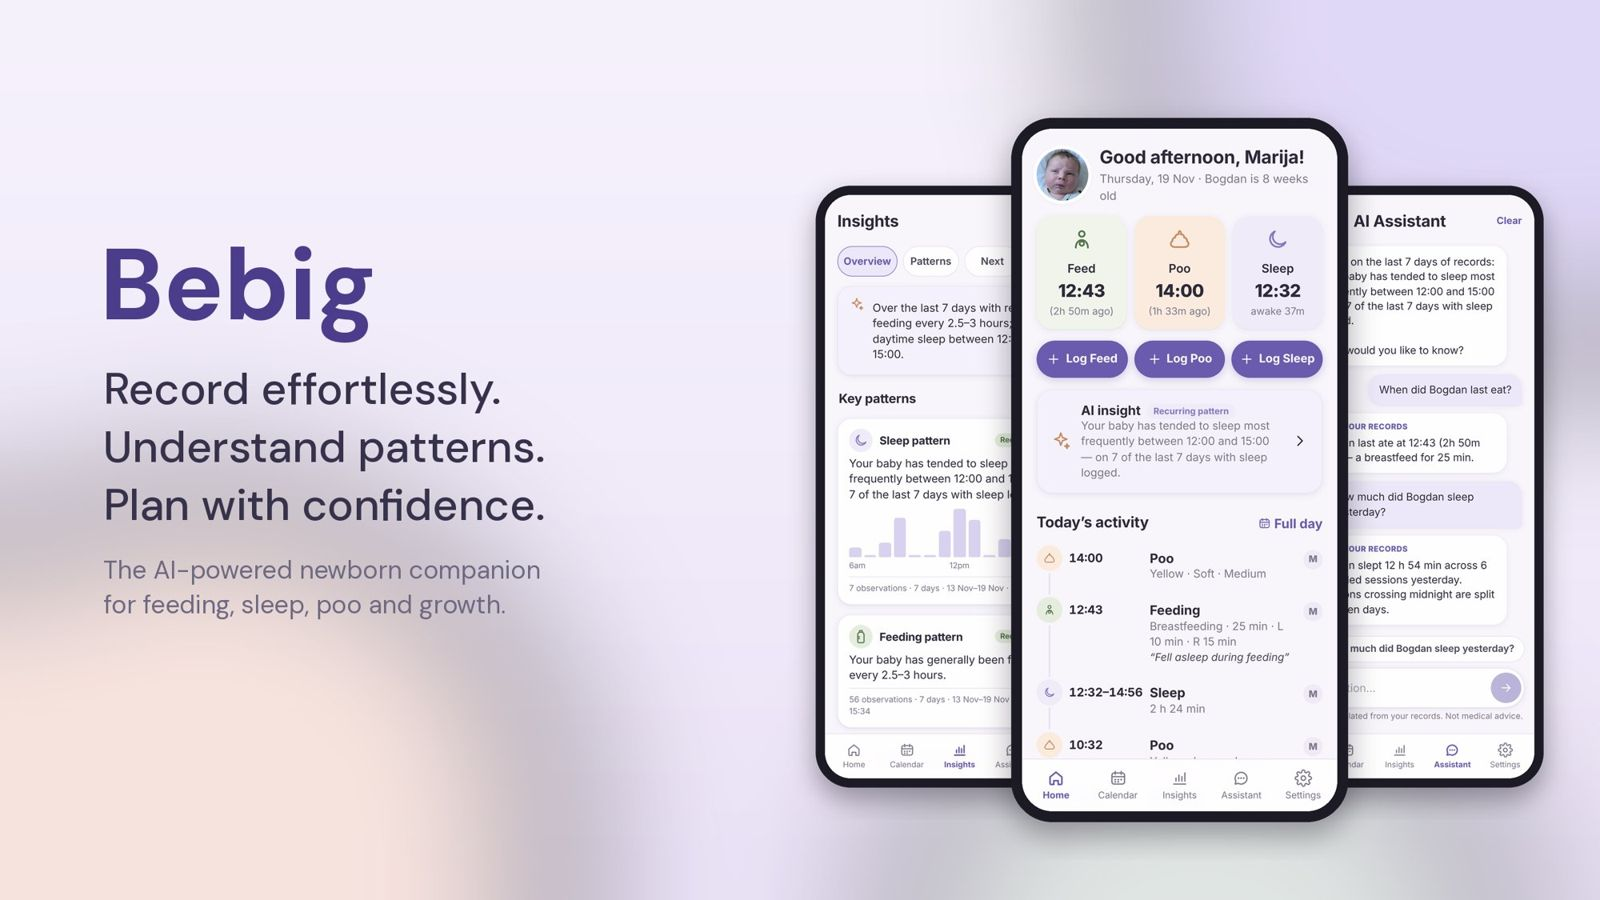
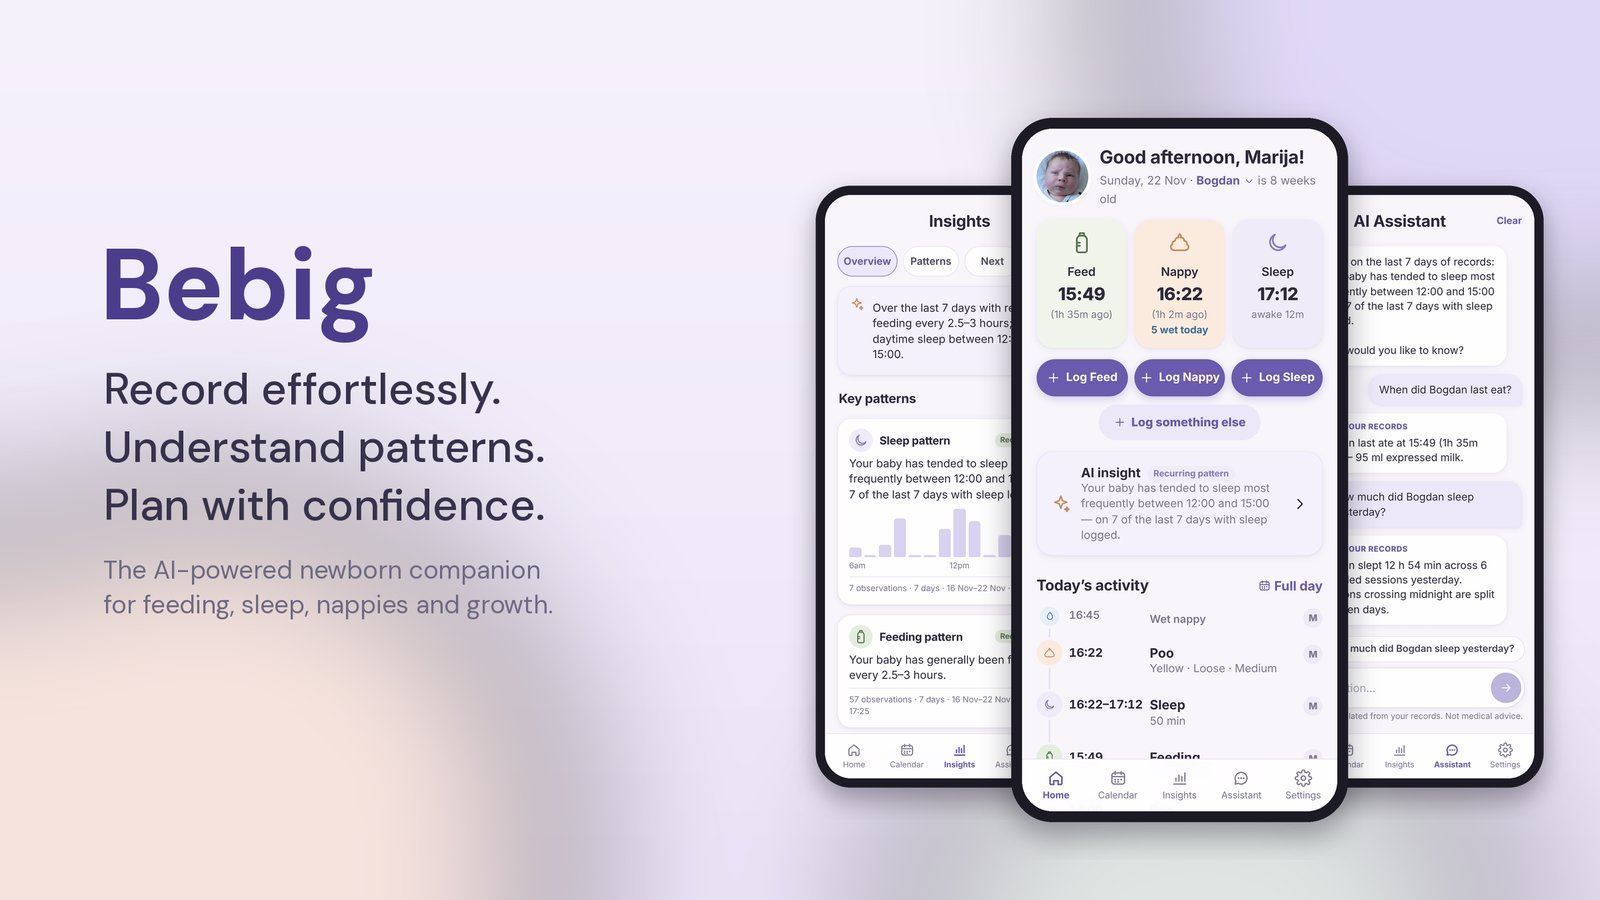
Update Bebig screenshots to the latest app screens (22 Nov)
Replaces the hero, logging and insights images with the new screens
(nappy logging, Log something else, Plus predictions), adds a version
tag so cached copies refresh, and updates alt text from poo to nappy.

Claude-Session: https://claude.ai/code/session_016wVeUrSKAb2BcYPoC7vM4z

diff --git a/projects.html b/projects.html
@@ -71,7 +71,7 @@
 <a href="https://github.com/mv-riba/bebig" style="display: inline-flex; align-items: center; min-height: 48px; padding: 0 24px; border-radius: 999px; border: 1.5px solid #F2EFE9; color: #F2EFE9; font-weight: 600; text-decoration: none">View code</a>
 </div>
 </div>
-<img loading="lazy" decoding="async" src="/assets/img/bebig-hero.jpg" alt="Bebig app: home screen with feed, poo and sleep tiles, an insights screen and an AI assistant" style="width: 100%; aspect-ratio: 16 / 9; object-fit: cover; display: block">
+<img loading="lazy" decoding="async" src="/assets/img/bebig-hero.jpg?v=20261122" alt="Bebig app: home screen with feed, nappy and sleep tiles, an insights screen and an AI assistant" style="width: 100%; aspect-ratio: 16 / 9; object-fit: cover; display: block">
 <div style="padding: 40px 48px; display: grid; grid-template-columns: repeat(auto-fit, minmax(230px, 1fr)); gap: 16px">
 <div style="padding: 24px; border-radius: 20px; border: 1px solid #2A2E35"><h3 style="margin: 0 0 6px; font-family: 'Bricolage Grotesque', sans-serif; font-size: 19px; font-weight: 700">Logging in seconds</h3><p style="margin: 0; color: #A8A39A; font-size: 15px">Quick feed, poo and sleep logging, with timers for each breast and for naps.</p></div>
 <div style="padding: 24px; border-radius: 20px; border: 1px solid #2A2E35"><h3 style="margin: 0 0 6px; font-family: 'Bricolage Grotesque', sans-serif; font-size: 19px; font-weight: 700">Patterns and predictions</h3><p style="margin: 0; color: #A8A39A; font-size: 15px">It spots recurring feeding and sleep patterns and estimates what's next, always showing how much data each estimate is based on.</p></div>
@@ -79,8 +79,8 @@
 <div style="padding: 24px; border-radius: 20px; border: 1px solid #2A2E35"><h3 style="margin: 0 0 6px; font-family: 'Bricolage Grotesque', sans-serif; font-size: 19px; font-weight: 700">Growth tracking</h3><p style="margin: 0; color: #A8A39A; font-size: 15px">WHO growth charts and a calendar history of every day.</p></div>
 </div>
 <div style="padding: 0 48px 48px; display: grid; grid-template-columns: repeat(auto-fit, minmax(320px, 1fr)); gap: 16px">
-<img loading="lazy" decoding="async" src="/assets/img/bebig-logging.jpg" alt="Bebig logging screens for feeds, poo and sleep" style="width: 100%; aspect-ratio: 18 / 11; object-fit: cover; border-radius: 20px; display: block">
-<img loading="lazy" decoding="async" src="/assets/img/bebig-insights.jpg" alt="Bebig insights, predictions and AI assistant screens" style="width: 100%; aspect-ratio: 18 / 11; object-fit: cover; border-radius: 20px; display: block">
+<img loading="lazy" decoding="async" src="/assets/img/bebig-logging.jpg?v=20261122" alt="Bebig logging screens for feeds, nappies and sleep" style="width: 100%; aspect-ratio: 18 / 11; object-fit: cover; border-radius: 20px; display: block">
+<img loading="lazy" decoding="async" src="/assets/img/bebig-insights.jpg?v=20261122" alt="Bebig insights, predictions and AI assistant screens" style="width: 100%; aspect-ratio: 18 / 11; object-fit: cover; border-radius: 20px; display: block">
 </div>
 </article>
 </section>

diff --git a/index.html b/index.html
@@ -102,7 +102,7 @@
 </div>
 <div style="display: grid; grid-template-columns: repeat(auto-fit, minmax(340px, 1fr)); gap: 16px">
 <div style="display: flex; flex-direction: column; border-radius: 24px; background: #171A1F; color: #F2EFE9; overflow: hidden">
-<img loading="lazy" decoding="async" src="/assets/img/bebig-hero.jpg" alt="Bebig app screens showing the home, insights and AI assistant views" style="width: 100%; aspect-ratio: 16 / 9; object-fit: cover; display: block">
+<img loading="lazy" decoding="async" src="/assets/img/bebig-hero.jpg?v=20261122" alt="Bebig app screens showing the home, insights and AI assistant views" style="width: 100%; aspect-ratio: 16 / 9; object-fit: cover; display: block">
 <div style="padding: 28px 32px 32px; display: flex; flex-direction: column; gap: 8px">
 <span style="align-self: flex-start; padding: 4px 12px; border-radius: 999px; border: 1px solid #F5A524; color: #F5A524; font-size: 13px; font-weight: 600">AI · Parenting</span>
 <h3 style="margin: 0; font-family: 'Bricolage Grotesque', sans-serif; font-size: 30px; font-weight: 700"><a href="https://bebig.app/" style="color: #F2EFE9; text-decoration: none">Bebig</a></h3>

diff --git a/bebig/index.html b/bebig/index.html
@@ -12,7 +12,7 @@
 <meta property="og:title" content="Bebig — learn your baby’s rhythm, one tap at a time">
 <meta property="og:description" content="Bebig is a newborn tracker for feeds, sleep, nappies and growth. Free core logging, shared with your partner, with Bebig Plus for predictions and an AI assistant.">
 <meta property="og:url" content="https://bebig.mvriba.com/">
-<meta property="og:image" content="https://mvriba.com/assets/img/bebig-hero.jpg">
+<meta property="og:image" content="https://mvriba.com/assets/img/bebig-hero.jpg?v=20261122">
 <meta name="twitter:card" content="summary_large_image">
 <link rel="icon" type="image/svg+xml" href="/bebig/icon.svg">
 <script>window.va = window.va || function () { (window.vaq = window.vaq || []).push(arguments); };</script>
